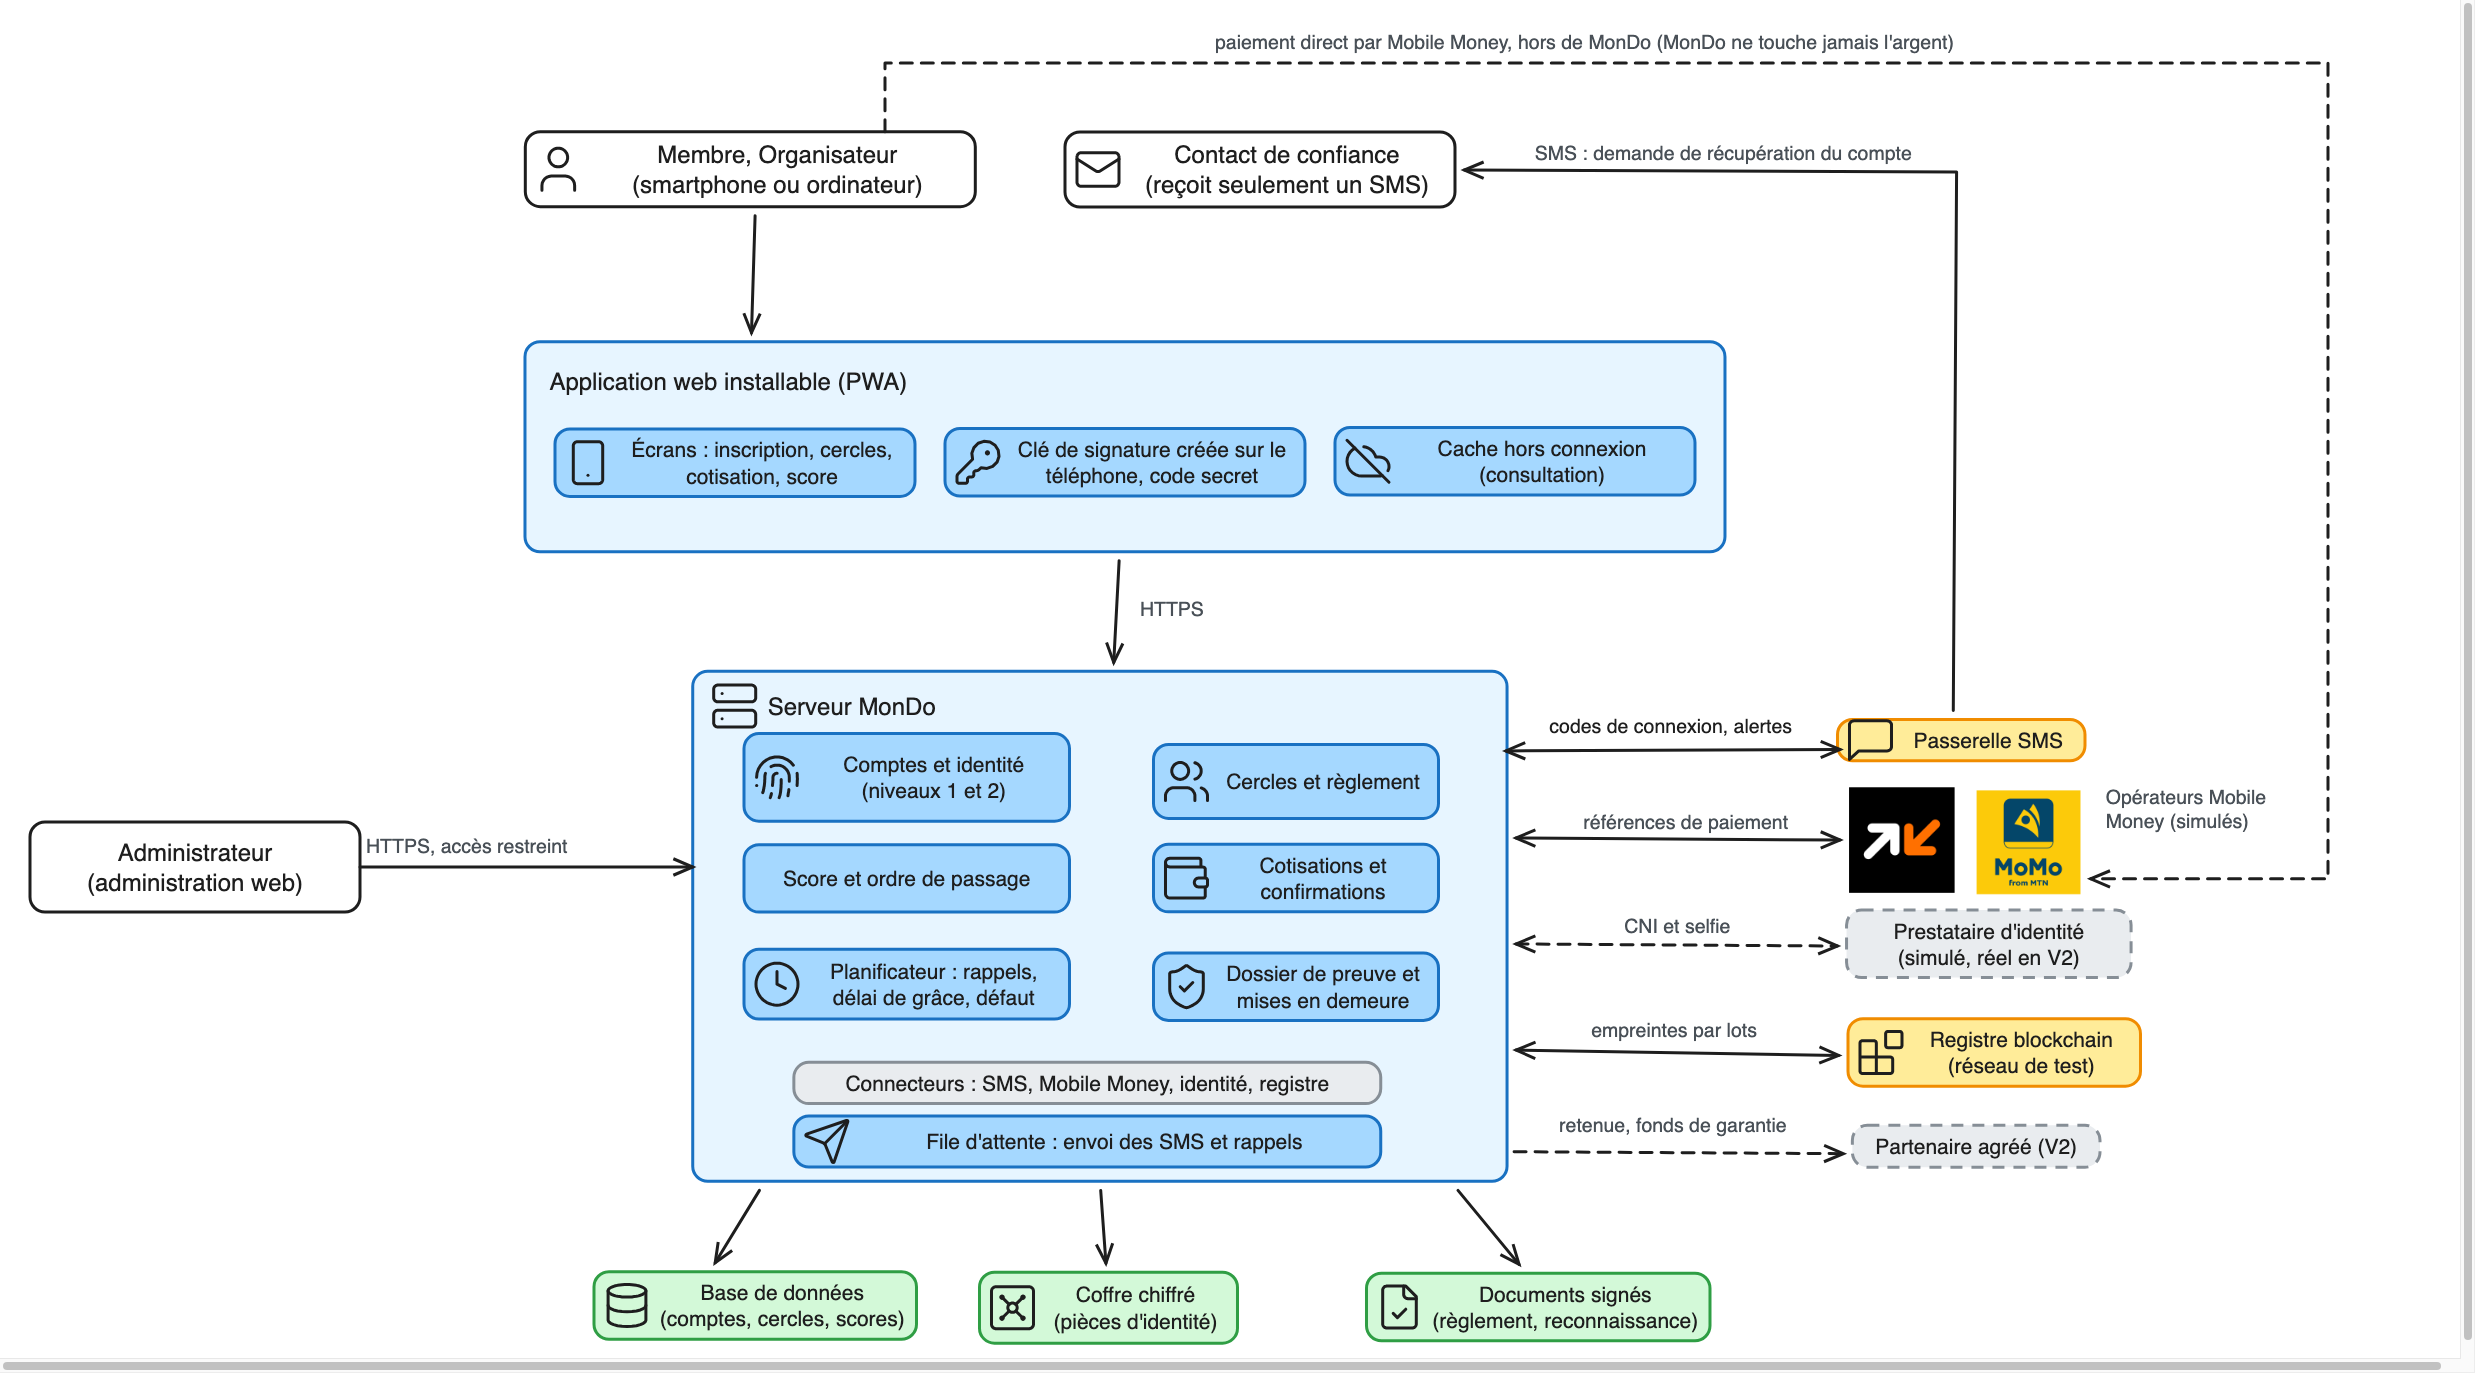
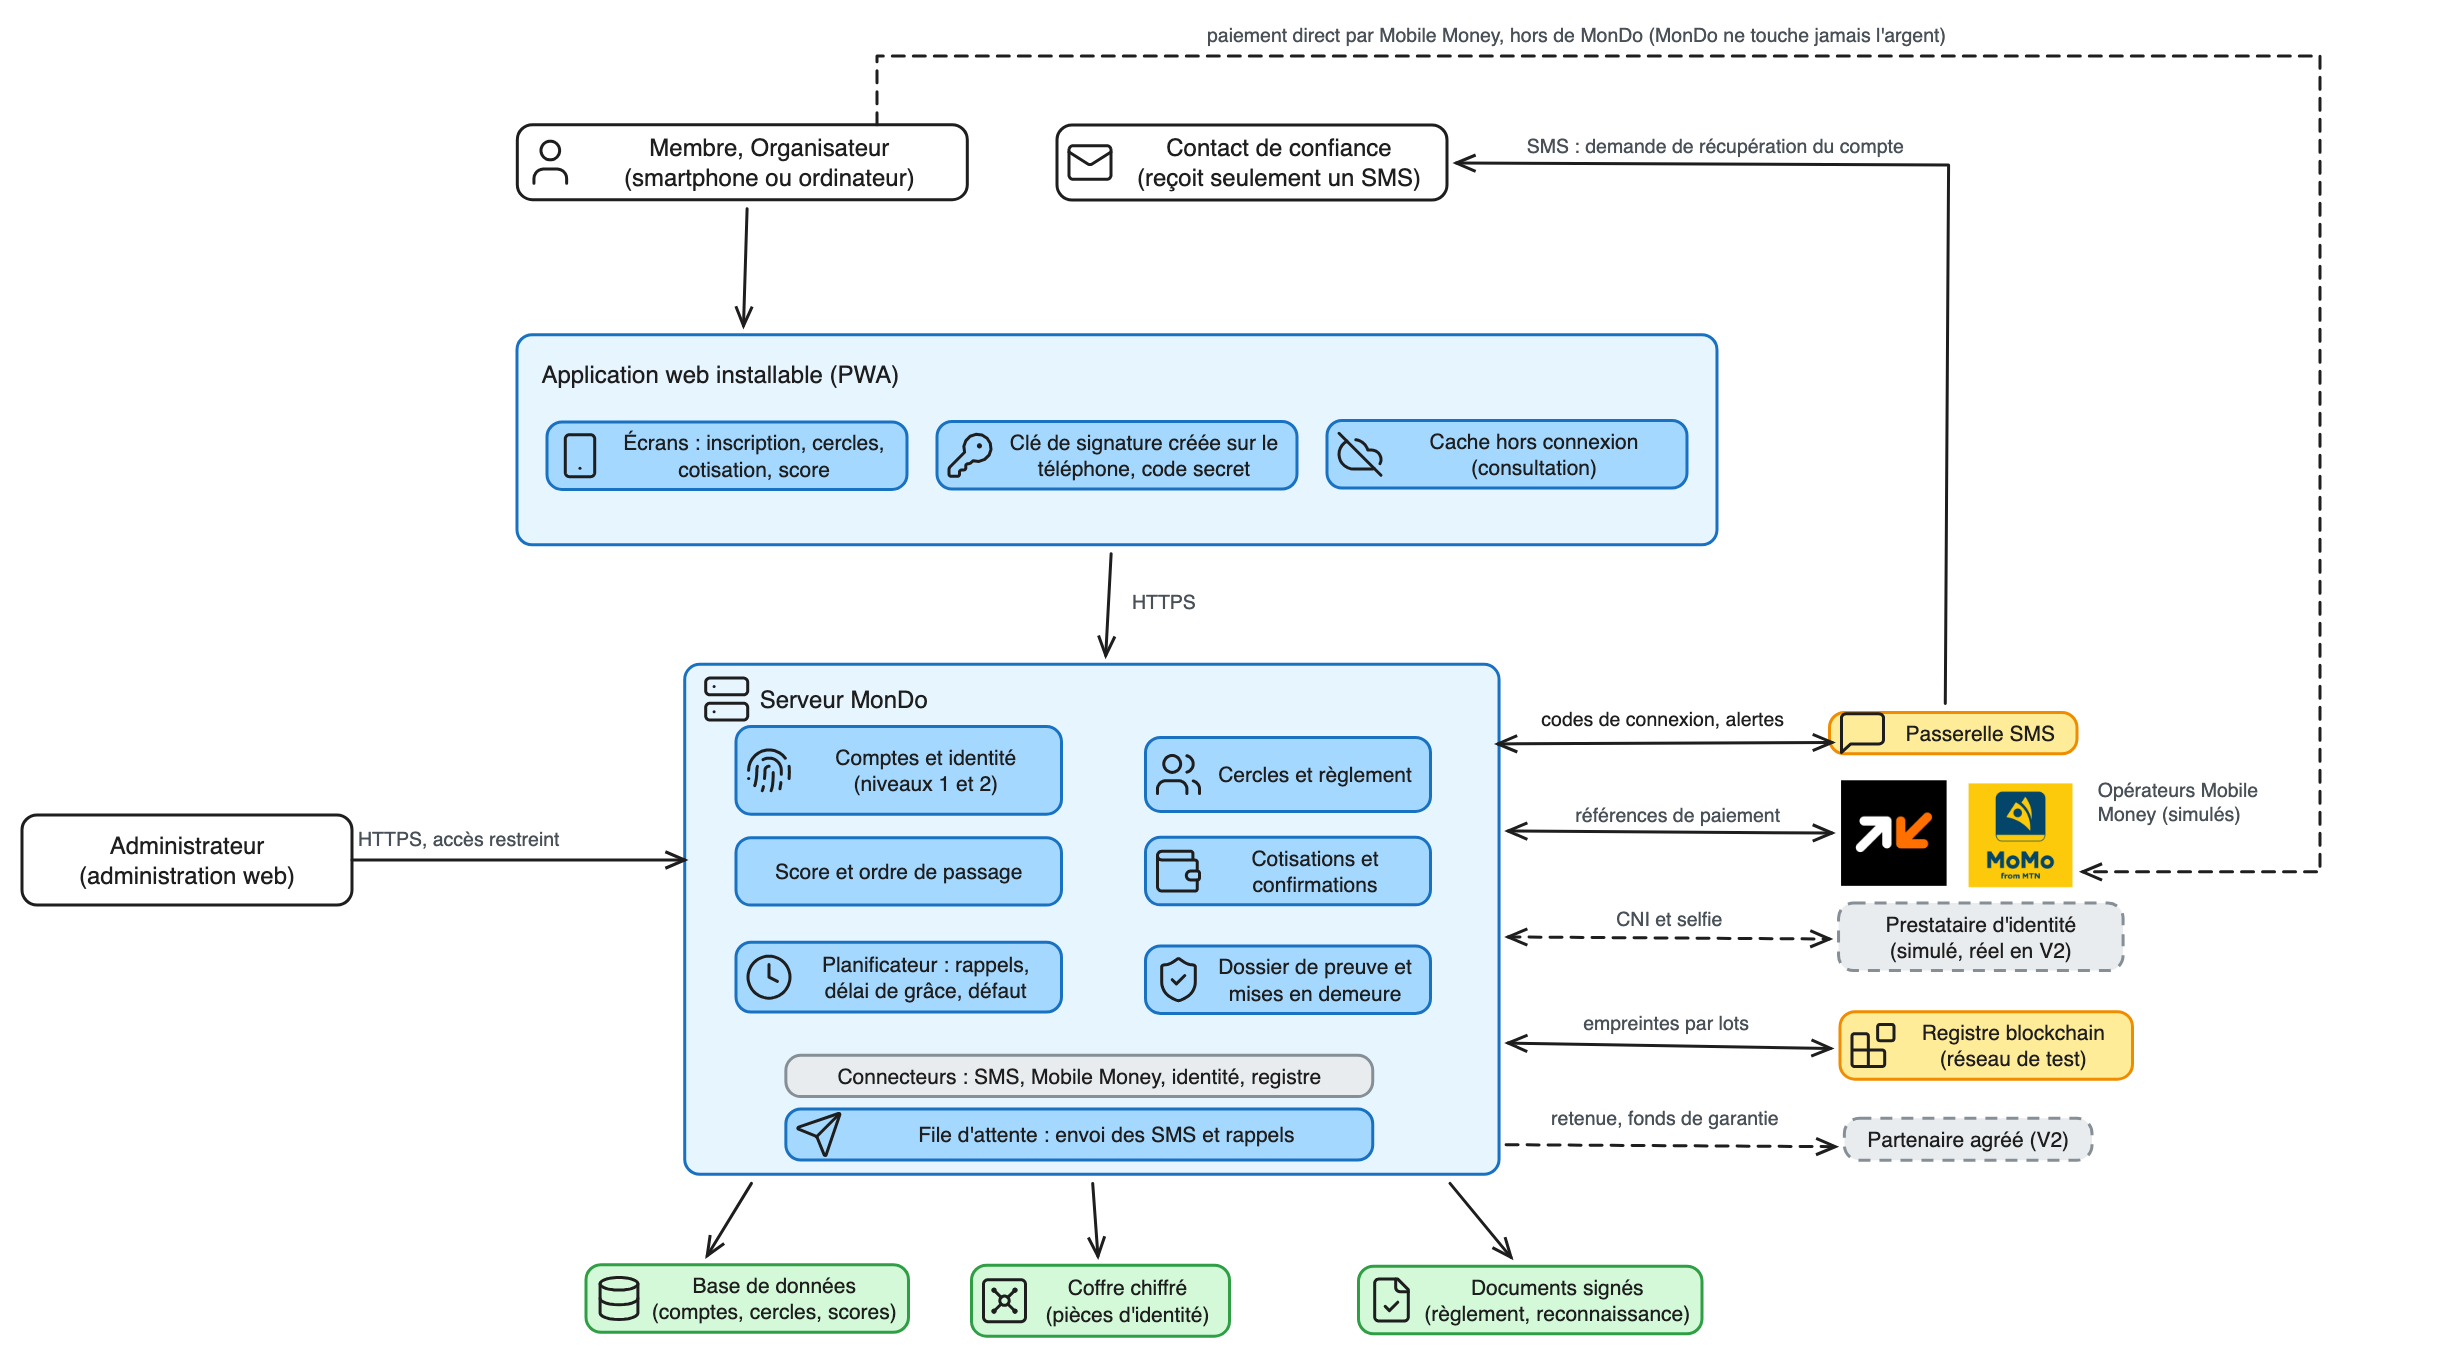
docs: l'auteur fusionne lui-même chaque étape, relecture après coup

diff --git a/CONTRIBUTING.md b/CONTRIBUTING.md
@@ -10,7 +10,7 @@ Ce guide fixe les règles de travail de l'équipe. Il évoluera avec le code : t
 Le français est la langue de travail : documents, issues, pull requests, messages de commit. Le code (noms de variables, de fonctions et de types) suit le vocabulaire du domaine défini dans les documents (Cercle, Cotisation, Score…), pour que tout le monde parle des mêmes objets.
 
 ## Branches
-- `main` est toujours dans un état présentable. **Personne ne pousse directement dessus.**
+- `main` est toujours dans un état présentable. **On n'y pousse jamais directement : tout passe par une pull request.**
 - Une branche par sujet, nommée `type/sujet-court`, par exemple `feat/calcul-score` ou `docs/flow-litige`.
 - Une branche vit peu de temps : on la fusionne vite, on la supprime ensuite.
 
@@ -30,11 +30,12 @@ Règles :
 - Pas de fichier généré, de sauvegarde d'éditeur ni de secret (voir `.gitignore`).
 
 ## Pull requests
-1. Ouvrir la pull request contre `main` avec le modèle fourni.
-2. Elle explique **ce qui change et pourquoi**, et comment le vérifier.
-3. **Au moins une relecture** d'un autre membre avant la fusion. On ne relit pas sa propre pull request.
-4. Les commentaires sont résolus avant la fusion. On fusionne par « squash » pour garder un historique lisible.
+1. Une pull request par étape terminée, contre `main`, avec le modèle fourni : **ce qui change et pourquoi**, comment le vérifier, ce qui n'est pas fait.
+2. `pnpm qualite` passe en local avant d'ouvrir la pull request, et l'intégration continue passe avant la fusion.
+3. **L'auteur fusionne lui-même** dès que l'étape est terminée, sans attendre de relecture. On fusionne par commit de fusion (pas de « squash ») pour garder chaque commit dans l'historique.
+4. **Relecture après coup** : chacun relit les pull requests fusionnées des autres et commente sur GitHub. Un problème trouvé devient une nouvelle pull request de correction (`fix:`), jamais une réécriture de `main`.
 5. Une pull request reste petite. Au-delà d'environ 400 lignes de code, on la découpe.
+6. Exception : une décision de conception ou une règle métier nouvelle n'est pas fusionnée sans l'accord de l'équipe (voir ci-dessous).
 
 ## Décisions de conception
 Un choix qui engage le projet (technologie, règle métier, architecture) s'écrit dans `docs/conception/decision-NN-sujet.md` : question, options, décision, conséquences, statut. La numérotation continue. Une décision n'est « validée » qu'avec l'accord explicite de l'équipe.

diff --git a/.github/PULL_REQUEST_TEMPLATE.md b/.github/PULL_REQUEST_TEMPLATE.md
@@ -12,4 +12,4 @@ Lien vers l'issue ou la décision concernée.
 - [ ] Aucun secret, aucune donnée réelle
 - [ ] Documentation ou schémas mis à jour si nécessaire
 - [ ] Règles métier couvertes par des tests (si du code)
-- [ ] Un relecteur demandé
+- [ ] Intégration continue au vert avant la fusion
